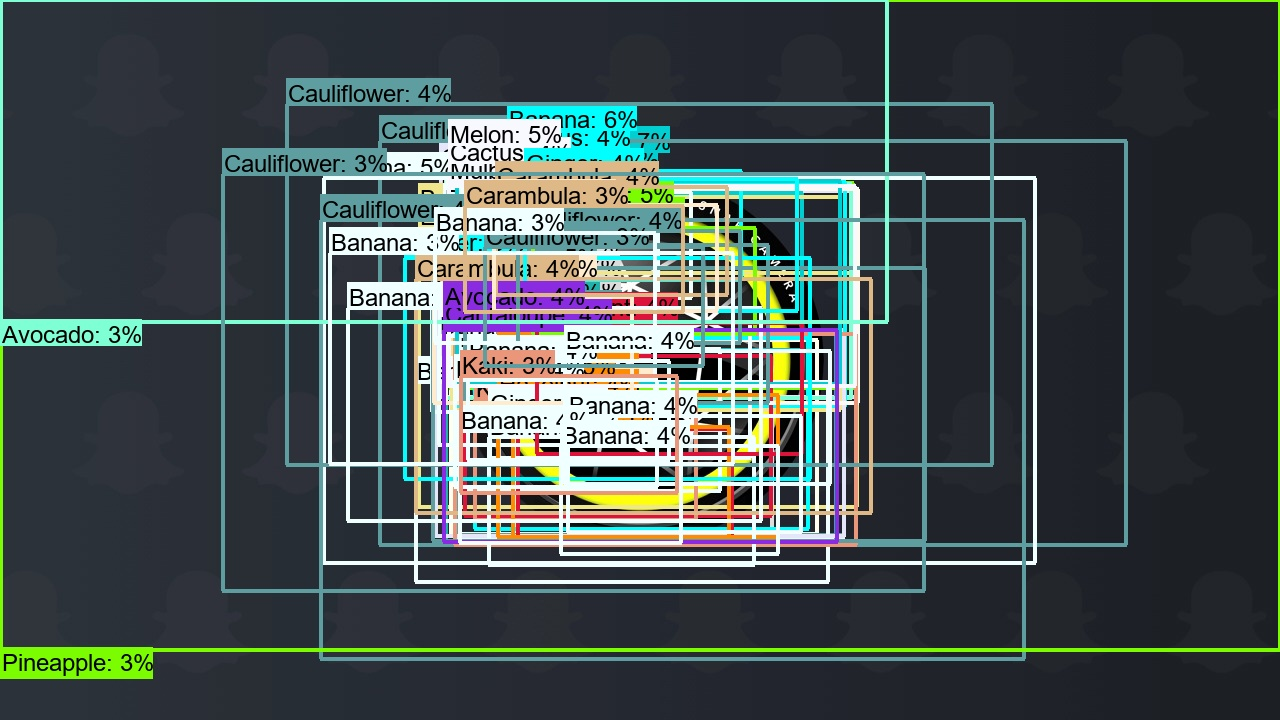
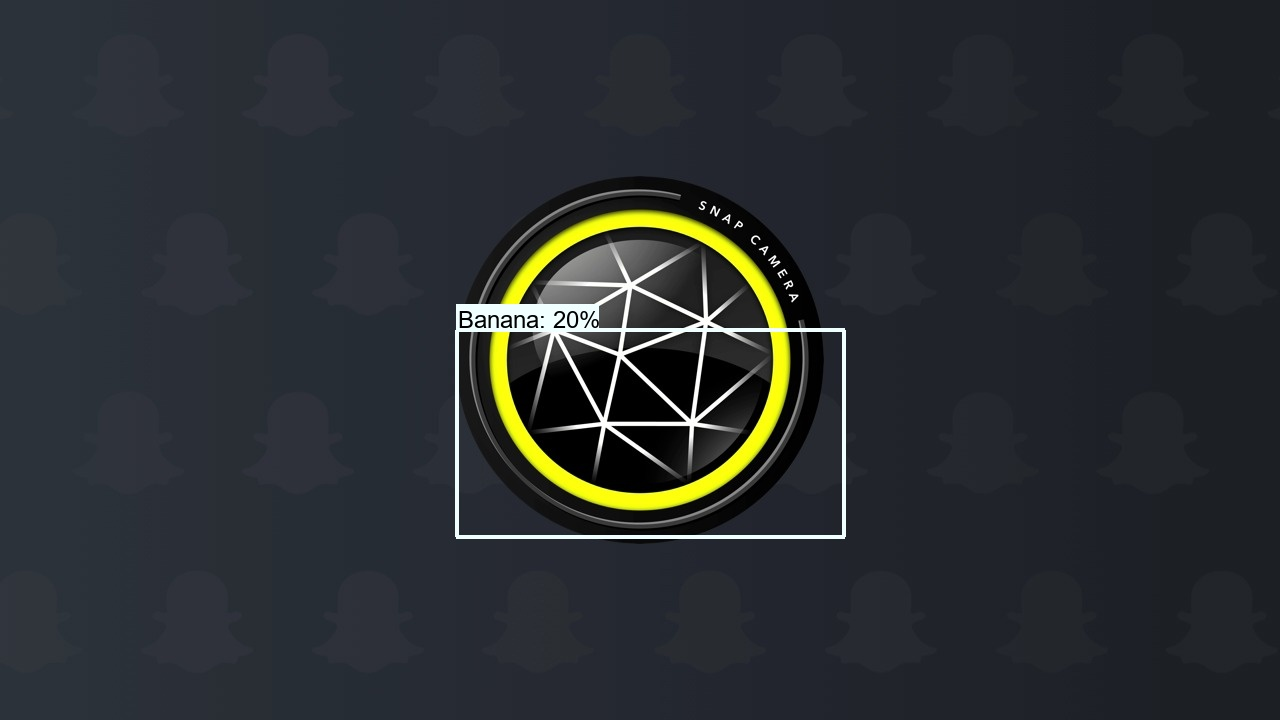
is this committed?

Changed region(s): [[0.0, 0.0, 1.0, 0.825], [0.0, 0.8861, 1.0, 0.9472], [0.0, 0.0, 0.0312, 0.0306]]

diff --git a/Frontend/src/pages/index.js b/Frontend/src/pages/index.js
@@ -5,6 +5,7 @@ import axios from "axios"
 import { Button, Drawer, Placeholder, FlexboxGrid } from 'rsuite';
 //import { Grid, Row, Col } from 'rsuite';
 import { Grid, Card } from '@material-ui/core'
+import Paper from '@material-ui/core/Paper';
 
 import InfoCard from "../components/InfoCard.js"
 import Leaves from "../leaves.json"
@@ -50,25 +51,22 @@ export default function HomePage() {
   }
 
   return(
-    <Grid container spacing={3} >
-      <Grid item xs container direction="column">
-        <Grid item>
-          <Card>
-            <Webcam
-              audio={false}
-              ref={webcamRef}
-              screenshotFormat="image/jpeg"
-              style={{minWidth: "50vw", paddingTop: "5vh", borderRadius: 25 }}
-            />
-          </Card>
-        </Grid>
-        <Grid item>
-          <Button style={{padding: 30}} onClick={capture}>Take Picture</Button>
-        </Grid>
+    <Grid container alignItems="center">
+      <Grid item xs container direction="row" justify="space-around">
+        <Card style={{maxWidth: "50vw", minHeight: "100vh"}}>
+          <Webcam
+            audio={false}
+            ref={webcamRef}
+            screenshotFormat="image/jpeg"
+          />
+          <Grid item>
+            <Button style={{padding: 30}} onClick={capture}>Take Picture</Button>
+          </Grid>
+        </Card>
       </Grid>
-      <Grid item>
-        <Card>
-          <InfoCard description={description}/>
+      <Grid item xs>
+        <Card style={{maxWidth: "50vw",  minHeight: "100vh", borderRadius: 25 }}>
+          <InfoCard description={description} />
         </Card>
       </Grid>
     </Grid>

diff --git a/Frontend/src/components/InfoCard.js b/Frontend/src/components/InfoCard.js
@@ -28,7 +28,7 @@ export default function InfoCard(props){
     return (
       <>
         <h1 style={{color: "#4CAF50"}}> {description.name} </h1>
-        <img src={description.image} minWidth="5vw" minHeight="5vh"></img>
+        <img src={description.image} style={{maxWidth: "30vw", maxHeight: "30vh"}}></img>
         <div style={{justifyContent: "center"}}/>
         <p>{description.description}</p>
         <p>{description.medicinal_properties}</p>
@@ -38,13 +38,10 @@ export default function InfoCard(props){
 
   return(
     <>
-    <div>
       {description
         ? <LeafDesc/>
         : <PlaceholderPara/>
       }
-    </div>
-      
     </>
   )
 }

diff --git a/Backend/app.py b/Backend/app.py
@@ -17,6 +17,11 @@ from object_detection.utils import ops as utils_ops
 from object_detection.utils import label_map_util
 from object_detection.utils import visualization_utils as vis_util
 
+def getJSON(label):
+  with open('example.json') as json_file:
+    data = json.load(json_file)
+    return "p"
+
 def loadAsNumpy(image):
   message_bytes = base64.b64decode(bytes(image, 'utf-8') + b'===')
   nparr = np.fromstring(message_bytes, np.uint8)
@@ -77,8 +82,19 @@ def get_num_classes(pbtxt_fname):
     category_index = label_map_util.create_category_index(categories)
     return len(category_index.keys())
 
+def lookup(label):
+  for p in data["weather"]:
+      if (label == p["name"]):
+        return p
+
+
+
+
 pb_fname = os.path.abspath("C:/Users/CalvinDong/source/repos/Deep Learning Project/Backend/custom/frozen_inference_graph.pb")
 assert os.path.isfile(pb_fname), '`{}` not exist'.format(pb_fname)
+
+with open('example.json') as json_file:
+    data = json.load(json_file)
 
 PATH_TO_MODEL = 'custom/saved_model'
 PATH_TO_LABELS = 'label_map.pbtxt'
@@ -97,8 +113,7 @@ with detection_graph.as_default():
 
 model = tf.compat.v1.saved_model.load_v2(PATH_TO_MODEL)
 label_map = label_map_util.load_labelmap(PATH_TO_LABELS)
-categories = label_map_util.convert_label_map_to_categories(
-  label_map, max_num_classes=num_classes, use_display_name=True)
+categories = label_map_util.convert_label_map_to_categories(label_map, max_num_classes=num_classes, use_display_name=True)
 category_index = label_map_util.create_category_index(categories)
 
 # configuration
@@ -110,9 +125,6 @@ app.config.from_object(__name__)
 #new_model = tf.keras.models.load_model('saved_model2/my_model2')
 #model = tf.saved_model.load(PATH_TO_MODEL)
 print("going to load")
-#detect_fn = model.signatures['serving_default']
-#category_index = label_map_util.create_category_index_from_labelmap(PATH_TO_LABELS,use_display_name=True)
-print("test this \n")
 
 # enable CORS
 CORS(app, resources={r"/*": {"origins": "*"}})
@@ -130,7 +142,9 @@ def postThis():
     #thing = predictImage(new_model, dictData["dta"][23:])
     image_np = loadAsNumpy(dictData["dta"][23:])
     output_dict = run_inference_for_single_image(image_np, detection_graph)
-    print(output_dict['detection_scores'])
+    output_dict['detection_boxes'] = output_dict['detection_boxes'][:][[0]]
+    output_dict['detection_classes'] = output_dict['detection_classes'][:][[0]]
+    output_dict['detection_scores'] = output_dict['detection_scores'][:][[0]]
 
     vis_util.visualize_boxes_and_labels_on_image_array(
         image_np,
@@ -143,11 +157,14 @@ def postThis():
         min_score_thresh=.01,
         agnostic_mode=False)
 
+    prediction = category_index[output_dict['detection_classes'][0]]
+    print(prediction["name"])
+    look = lookup(prediction["name"])
+    print(look)
     filename = 'savedImage(Obj).jpg'
     img = cv2.cvtColor(image_np, cv2.COLOR_RGB2BGR)
     cv2.imwrite(filename, img)
-    #thing2 = detectObject(model, dictData["dta"][23:], tf, vis_util, category_index, detection_graph)
-    return jsonify("thing")
+    return jsonify(look)
 
 if __name__ == '__main__':
     app.run()
